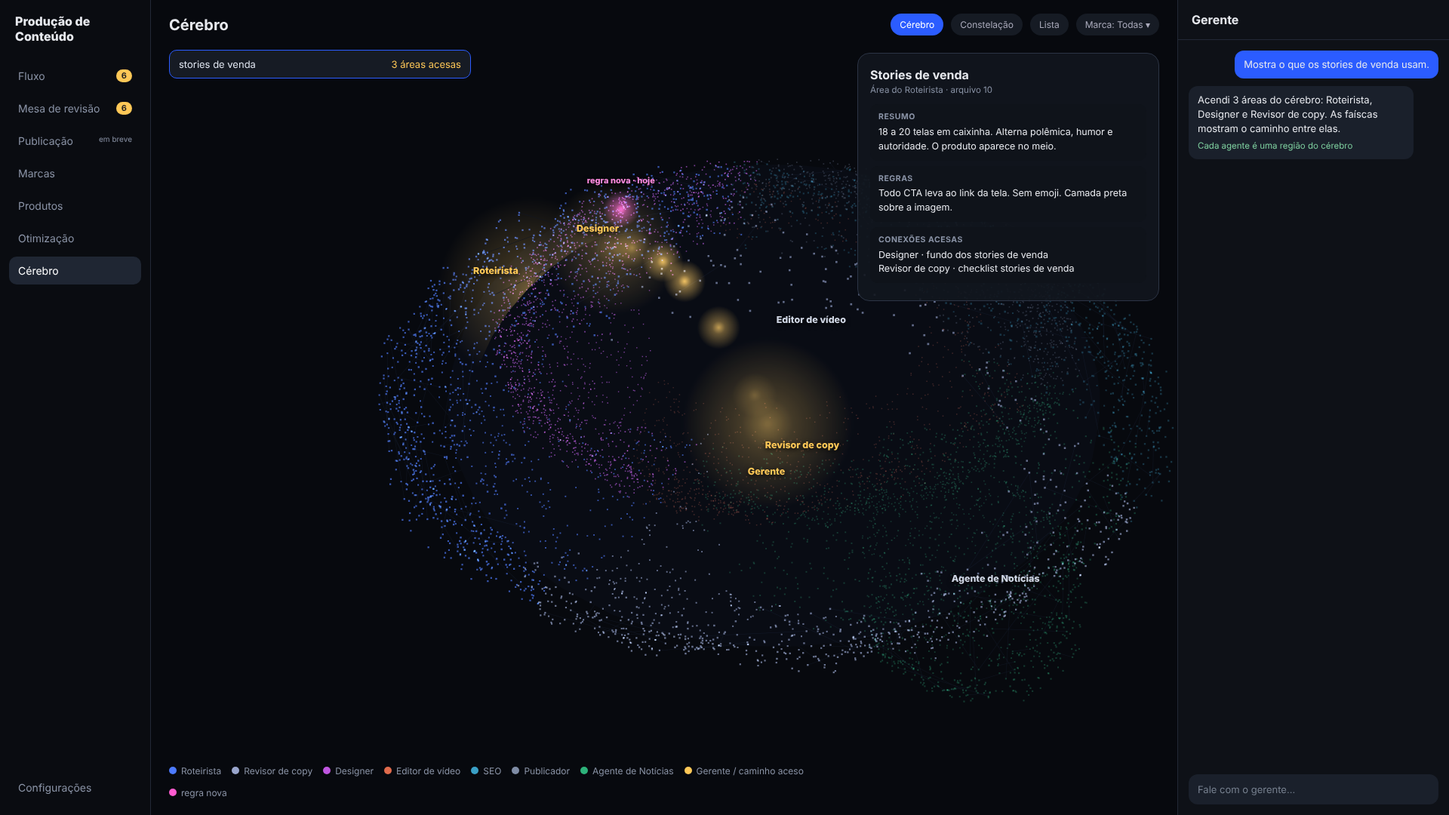
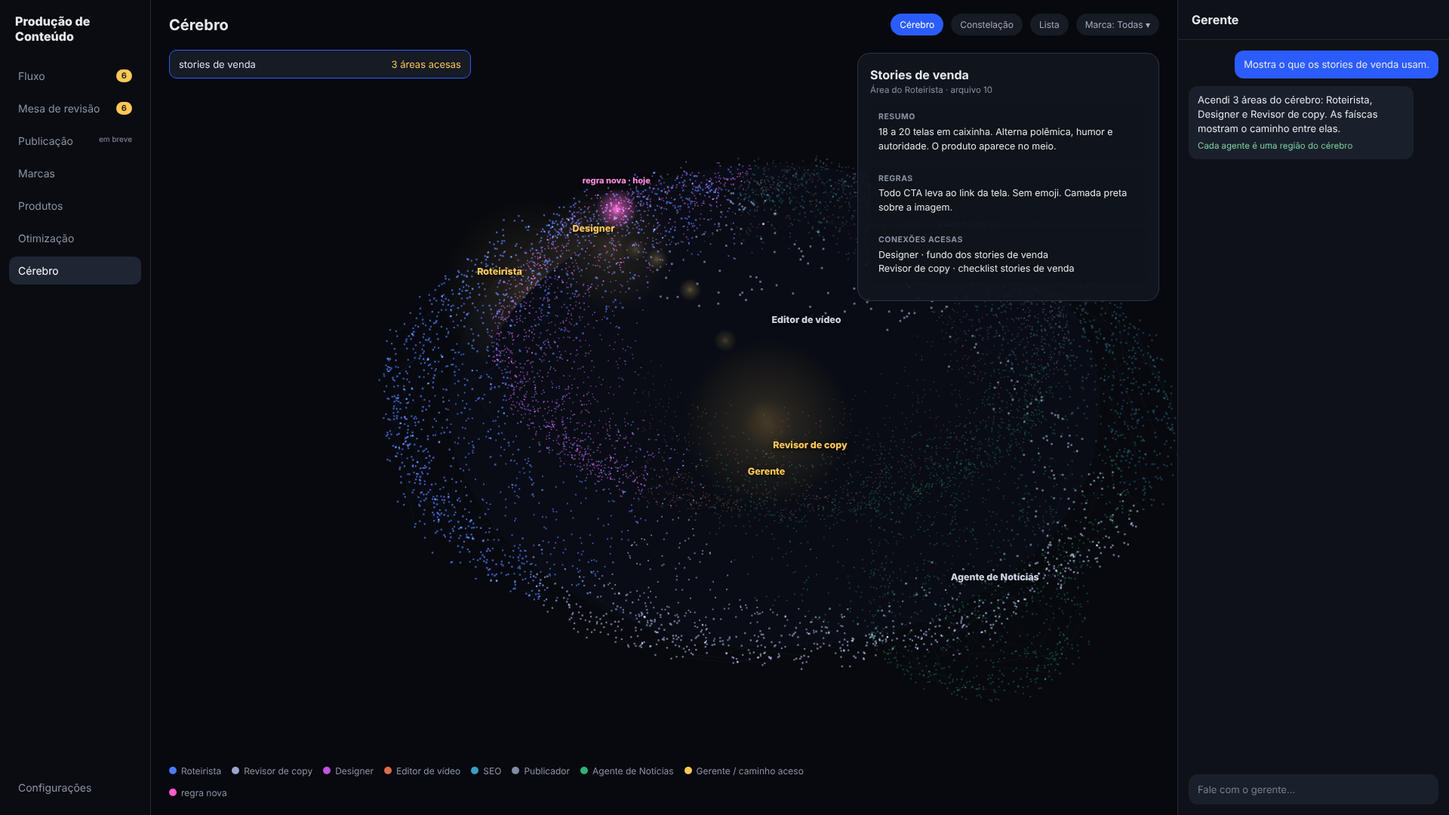
Mockup v3: personagens mais humanos, telão com futebol, cérebro mais suave e UI premium grafite
Claude-Session: https://claude.ai/code/session_017mkQW85rJCmU6p9tbJQqBr

Changed region(s): [[0.25, 0.1833, 0.8125, 0.825], [0.6875, 0.7944, 0.7188, 0.825], [0.6562, 0.825, 0.6875, 0.8556]]

diff --git a/mockup/v3/fluxo-premium.html b/mockup/v3/fluxo-premium.html
@@ -1,0 +1,67 @@
+<!doctype html><html><head><meta charset="utf-8"><style>*{box-sizing:border-box;margin:0;font-family:Inter,Segoe UI,Arial,sans-serif}
+body{background:#0e1117;color:#e7e9ee;width:1920px;height:1080px;display:flex}
+.side{width:200px;background:#0a0c11;border-right:1px solid #222836;padding:18px 12px;display:flex;flex-direction:column;gap:6px}
+.logo{font-weight:800;margin:0 8px 18px}.nv{padding:10px 12px;border-radius:10px;color:#8a93a6;font-size:14px}.nv.on{background:#1f2633;color:#fff}
+.nv b{float:right;background:#ffc857;color:#222;border-radius:9px;font-size:11px;padding:1px 7px}
+.main{flex:1;padding:20px 24px;overflow:hidden}
+.top{display:flex;align-items:center;gap:10px;margin-bottom:16px}.top h1{font-size:20px;margin-right:auto}
+.chip{font-size:12px;background:#1a202b;padding:6px 11px;border-radius:999px;color:#aab}.chip.on{background:#2b5cff;color:#fff}
+.chat{width:360px;border-left:1px solid #222836;display:flex;flex-direction:column}
+.ch{padding:16px 18px;border-bottom:1px solid #222836;font-weight:700}
+.msgs{flex:1;padding:14px;display:flex;flex-direction:column;gap:10px;font-size:13px;line-height:1.45}
+.m{padding:9px 12px;border-radius:12px;max-width:90%}.u{background:#2b5cff;align-self:flex-end}.g{background:#1a202b}
+.g small{display:block;color:#7fd1a0;margin-top:6px;font-size:11.5px}
+.in{margin:14px;padding:12px;background:#1a202b;border-radius:12px;color:#77808f;font-size:13px}
+.live{display:inline-block;width:8px;height:8px;border-radius:50%;background:#3ddc84;margin-right:6px;box-shadow:0 0 8px #3ddc84}
+
+.nv{display:flex;align-items:center;gap:10px}.nv b{margin-left:auto}
+.brandtag{font-size:10.5px;padding:2px 7px;border-radius:999px;background:#1f2633;color:#bcd}
+.lane{background:#131821;border:1px solid #222836;border-radius:12px;padding:9px 12px;margin-bottom:8px}
+.lh{display:flex;align-items:center;gap:10px;margin-bottom:7px}.lh b{font-size:14px}.lh .sub{font-size:11.5px;color:#8a93a6}
+.meta{margin-left:auto;font-size:11.5px;color:#cfd6e4;display:flex;align-items:center;gap:8px}.pb{width:70px;height:5px;background:#222836;border-radius:3px}.pb u{display:block;height:5px;background:#2b5cff;border-radius:3px}
+.st{display:flex;gap:6px}.s{flex:1;min-width:0;background:#0f131a;border-radius:9px;padding:6px;display:flex;flex-direction:column;gap:5px;min-height:62px}
+.s.me{background:#1d1a10;outline:1px solid #4a3f1a}.s.done{background:#0f1a14}
+.sh{font-size:10px;text-transform:uppercase;letter-spacing:.04em;color:#8a93a6;display:flex;justify-content:space-between;gap:4px}.sh i{font-style:normal;text-transform:none;letter-spacing:0;color:#aeb7c8}
+.s.me .sh{color:#ffc857}.s.done .sh{color:#3ddc84}
+.c{background:#1a202b;border-radius:7px;padding:5px 7px;font-size:11.5px;border-left:3px solid #3ddc84;line-height:1.3}.c i{font-style:normal;font-size:10px;color:#8a93a6;display:block}
+.c.y{border-color:#ffc857}.c.aj{border-color:#ff8a3d}.c.aj i{color:#ff9d5c}.c.d{opacity:.65}.c.q{border-color:#555}.c.e{border-color:#ff5b5b}.c.e i{color:#ff8b8b}
+.leg{display:flex;gap:16px;font-size:11px;color:#8a93a6;margin-top:6px}.leg span:before{content:"";display:inline-block;width:9px;height:9px;border-radius:2px;margin-right:6px;background:var(--c)}
+@import url('https://fonts.googleapis.com/css2?family=Inter:wght@400;500;600;700&display=swap');
+body{background:#0c0c0d!important;font-feature-settings:"cv11","ss01";letter-spacing:-.005em}
+.side{background:#0f0f10!important;border-right:1px solid #1f1f22!important;width:232px!important;padding:22px 14px!important}
+.logo{font-size:15px;letter-spacing:.02em;margin-bottom:26px!important;display:flex;align-items:center;gap:10px}
+.logo:before{content:"";width:26px;height:26px;border-radius:8px;background:linear-gradient(135deg,#e9d8a6,#a8864a);box-shadow:0 0 0 1px #ffffff22 inset}
+.nv{color:#8b8b90!important;font-size:13.5px!important;padding:10px 12px!important;border:1px solid transparent}
+.nv.on{background:linear-gradient(180deg,#1c1c1f,#161618)!important;color:#f2f2f3!important;border-color:#2a2a2e;box-shadow:inset 0 1px 0 #ffffff0d}
+.nv b{background:#2a2418!important;color:#e9d29a!important;border:1px solid #4a3f26;font-weight:600!important}
+.main{background:radial-gradient(1200px 500px at 30% -10%,#1a1a1d 0,#0c0c0d 60%)!important;padding:26px 30px!important}
+.top h1{font-size:22px!important;font-weight:600;letter-spacing:-.02em}
+.chip{background:#161618!important;border:1px solid #26262a!important;color:#a5a5aa!important;font-weight:500}
+.chip.on{background:#f2f2f3!important;color:#0c0c0d!important;border-color:#f2f2f3!important}
+.lane{background:linear-gradient(180deg,#141416,#111113)!important;border:1px solid #222225!important;border-radius:16px!important;box-shadow:inset 0 1px 0 #ffffff08,0 10px 30px #0006;padding:12px 14px!important}
+.lh b{font-weight:600;letter-spacing:-.01em}
+.s{background:#0e0e0f!important;border:1px solid #1c1c1f;border-radius:11px!important}
+.s.me{background:linear-gradient(180deg,#19160f,#121110)!important;outline:none!important;border-color:#3a3220!important}
+.s.done{background:#0f1311!important;border-color:#1c2a22}
+.sh{color:#6f6f75!important;font-weight:500}.s.me .sh{color:#d9c08a!important}.s.done .sh{color:#7fbf98!important}
+.c{background:#18181b!important;border-left:none!important;border:1px solid #26262a;box-shadow:inset 2px 0 0 #6fcf97;border-radius:8px!important;color:#e8e8ea}
+.c.y{box-shadow:inset 2px 0 0 #d9c08a}.c.aj{box-shadow:inset 2px 0 0 #d98a5a}.c.e{box-shadow:inset 2px 0 0 #e06060;background:#1d1414!important}.c.q{box-shadow:inset 2px 0 0 #4a4a50}
+.c i{color:#7b7b82!important}.c.aj i{color:#d9a07a!important}.c.e i{color:#e88!important}
+.pb{background:#232326!important}.pb u{background:linear-gradient(90deg,#a8864a,#e9d8a6)!important}
+.chat{background:#0f0f10!important;border-left:1px solid #1f1f22!important}
+.ch{border-bottom:1px solid #1f1f22!important;font-weight:600!important}
+.m.u{background:#f2f2f3!important;color:#0c0c0d}.m.g{background:#18181b!important;border:1px solid #26262a}
+.g small{color:#c9b37f!important}
+.in{background:#161618!important;border:1px solid #26262a}
+.leg span:before{border-radius:50%!important}
+.c,.c.y,.c.aj,.c.e,.c.q,.c.d{border-color:#26262a!important}.c.e{border-color:#3a2224!important}
+.lane{margin-bottom:7px!important;padding:9px 12px!important}.s{min-height:54px!important}.main{padding:20px 26px!important}
+div[style*="width:300px;background:#1a202b"]{display:none!important}
+</style></head><body><div class="side"><div class="logo">Produção de Conteúdo</div><div class="nv on"><svg width="18" height="18" viewBox="0 0 24 24" fill="none" stroke="currentColor" stroke-width="1.7" stroke-linecap="round" stroke-linejoin="round"><rect x="3" y="4" width="5" height="16" rx="1.5"/><rect x="10" y="4" width="5" height="10" rx="1.5"/><rect x="17" y="4" width="4" height="13" rx="1.5"/></svg>Fluxo<b>6</b></div><div class="nv"><svg width="18" height="18" viewBox="0 0 24 24" fill="none" stroke="currentColor" stroke-width="1.7" stroke-linecap="round" stroke-linejoin="round"><path d="M4 4h16v12H4z"/><path d="M8 20h8M12 16v4"/><path d="M9 10l2 2 4-4"/></svg>Mesa de revisão<b>6</b></div><div class="nv"><svg width="18" height="18" viewBox="0 0 24 24" fill="none" stroke="currentColor" stroke-width="1.7" stroke-linecap="round" stroke-linejoin="round"><path d="M3 12V4h8l10 10-8 8z"/><circle cx="7.5" cy="7.5" r="1.5"/></svg>Marcas</div><div class="nv"><svg width="18" height="18" viewBox="0 0 24 24" fill="none" stroke="currentColor" stroke-width="1.7" stroke-linecap="round" stroke-linejoin="round"><path d="M3 7l9-4 9 4v10l-9 4-9-4z"/><path d="M3 7l9 4 9-4M12 11v10"/></svg>Produtos</div><div class="nv"><svg width="18" height="18" viewBox="0 0 24 24" fill="none" stroke="currentColor" stroke-width="1.7" stroke-linecap="round" stroke-linejoin="round"><path d="M3 20h18"/><path d="M5 16l5-5 4 3 6-7"/><path d="M15 7h5v5"/></svg>Otimização</div><div class="nv"><svg width="18" height="18" viewBox="0 0 24 24" fill="none" stroke="currentColor" stroke-width="1.7" stroke-linecap="round" stroke-linejoin="round"><path d="M9 4a3 3 0 00-3 3 3 3 0 00-2 5 3 3 0 002 5 3 3 0 006 0V6a2 2 0 00-3-2z"/><path d="M15 4a3 3 0 013 3 3 3 0 012 5 3 3 0 01-2 5 3 3 0 01-6 0"/></svg>Cérebro</div><div style="margin-top:auto;font-size:11.5px;color:#8a93a6;padding:10px 12px;border-top:1px solid #222836">Gasto do mês<br><b style="color:#dde;font-size:14px">R$ 0,00</b> <span>assinatura Claude + fal.ai</span></div><div class="nv"><svg width="18" height="18" viewBox="0 0 24 24" fill="none" stroke="currentColor" stroke-width="1.7" stroke-linecap="round" stroke-linejoin="round"><circle cx="12" cy="12" r="3"/><path d="M12 2v3M12 19v3M2 12h3M19 12h3M4.9 4.9l2.1 2.1M17 17l2.1 2.1M4.9 19.1L7 17M17 7l2.1-2.1"/></svg>Configurações</div></div><div class="main"><div style="background:linear-gradient(90deg,#1f1314,#141213);border:1px solid #3a2224;border-radius:11px;padding:8px 14px;margin-bottom:10px;display:flex;align-items:center;gap:12px;font-size:12.5px"><b style="color:#ff6b6b">1 problema</b><span style="color:#f2c4c4">Editor de vídeo parou: a assinatura do Claude saiu do login. 1 Reels esperando.</span><span style="margin-left:auto;background:#f2f2f3;color:#0c0c0d;padding:5px 12px;border-radius:8px;font-weight:700">Resolver</span></div>
+<div class="top" style="margin-bottom:10px"><h1>Fluxo</h1><span class="chip on">Lista</span><span class="chip">Escritório</span><span style="flex:1"></span><div style="position:relative"><span class="chip" style="display:inline-flex;gap:8px;align-items:center;padding:7px 14px;border:1px solid #3a3a3f">Marca: <b style="color:#fff">Todas (7)</b> ▾</span>
+<div style="position:absolute;right:0;top:40px;width:300px;background:#1a202b;border:1px solid #2c3445;border-radius:12px;padding:10px;z-index:5;box-shadow:0 20px 40px #000c;font-size:13px">
+<div style="background:#0f131a;border-radius:8px;padding:8px 10px;color:#77808f;margin-bottom:8px">Buscar marca…</div>
+<div style="font-size:10.5px;color:#8a93a6;text-transform:uppercase;margin:4px 6px">Fixadas</div>
+<div style="padding:7px 8px;border-radius:7px;background:#ffffff10">✓ Todas as marcas</div><div style="padding:7px 8px">★ Central do Marketing <span style="float:right;color:#ffc857">2</span></div><div style="padding:7px 8px">★ 007 Spyhacker <span style="float:right;color:#ffc857">2</span></div>
+<div style="font-size:10.5px;color:#8a93a6;text-transform:uppercase;margin:8px 6px 4px">Outras</div><div style="padding:7px 8px">Corte dos Ricos<span style="float:right;color:#ffc857"></span></div><div style="padding:7px 8px">Marketing Raiz<span style="float:right;color:#ffc857">1</span></div><div style="padding:7px 8px">Seguidores em Alta<span style="float:right;color:#ffc857"></span></div><div style="padding:7px 8px">SIM Int Pay<span style="float:right;color:#ffc857"></span></div><div style="padding:7px 8px">Vivendo de Bet<span style="float:right;color:#ffc857">2</span></div><div style="font-size:11px;color:#8a93a6;margin:8px 6px 2px">O número amarelo é o que espera você naquela marca.</div></div></div><span class="chip" style="background:linear-gradient(135deg,#e9d8a6,#a8864a)!important;color:#141006!important;border:none!important;font-weight:600">+ Novo conteúdo</span></div><div class="lane"><div class="lh"><b>Carrossel</b><span class="sub">educativo · história real · post de venda</span><span class="meta">Meta 4/dia · 2 de 4<span class="pb"><u style="width:50%"></u></span><span class="chip">Manual</span></span></div><div class="st"><div class="s "><div class="sh">Roteiro<i>Roteirista</i></div><div class="c ">Delivery e comissão<i>Corte dos Ricos · escrevendo</i></div></div><div class="s "><div class="sh">Revisão de copy<i>Revisor de copy</i></div><div class="c ">Fyre Festival<i>Seguidores em Alta · checklist história real</i></div></div><div class="s me"><div class="sh">Aprovar roteiro<i></i></div><div class="c y">Aluno profissional<i>Central do Marketing</i></div></div><div class="s "><div class="sh">Arte<i>Designer</i></div><div class="c ">Toy Story 2 quase apagado<i>007 Spyhacker · slide 6 de 10</i></div><div class="c aj">Controle Patrimonial<i>Corte dos Ricos · ajuste: "capa mais escura"</i></div></div><div class="s me"><div class="sh">Aprovar arte<i></i></div><div class="c y">Moldura de preço<i>Central do Marketing · 9 slides</i></div></div><div class="s "><div class="sh">Postagem<i>Publicador</i></div><div class="c q">Conteúdo de vitrine e de decisão<i>Central do Marketing · marcar postado</i></div></div><div class="s done"><div class="sh">Finalizado<i></i></div><div class="c d">A promoção da Hoover<i>Marketing Raiz · postado</i></div></div></div></div><div class="lane"><div class="lh"><b>Estático</b><span class="sub">post único</span><span class="meta">Meta 1/dia · 0 de 1<span class="pb"><u style="width:0%"></u></span><span class="chip">Manual</span></span></div><div class="st"><div class="s "><div class="sh">Roteiro<i>Roteirista</i></div></div><div class="s "><div class="sh">Revisão de copy<i>Revisor de copy</i></div></div><div class="s me"><div class="sh">Aprovar texto<i></i></div><div class="c y">Opinião: venda de jovens<i>Vivendo de Bet</i></div></div><div class="s "><div class="sh">Arte<i>Designer</i></div></div><div class="s me"><div class="sh">Aprovar arte<i></i></div></div><div class="s "><div class="sh">Postagem<i>Publicador</i></div></div><div class="s done"><div class="sh">Finalizado<i></i></div></div></div></div><div class="lane"><div class="lh"><b>Stories de venda</b><span class="sub">18 a 20 telas · caixinha</span><span class="meta">Meta 1/dia · 1 de 1<span class="pb"><u style="width:100%"></u></span><span class="chip">Manual</span></span></div><div class="st"><div class="s "><div class="sh">Roteiro<i>Roteirista</i></div></div><div class="s "><div class="sh">Revisão de copy<i>Revisor de copy</i></div></div><div class="s me"><div class="sh">Aprovar roteiro<i></i></div></div><div class="s "><div class="sh">Arte<i>Designer</i></div><div class="c ">PagaTG no Seguidores em Alta<i>tela 12 de 20</i></div></div><div class="s me"><div class="sh">Aprovar arte<i></i></div><div class="c y">Atlas Hosting<i>007 Spyhacker · 19 telas</i></div></div><div class="s "><div class="sh">Postagem<i>Publicador</i></div></div><div class="s done"><div class="sh">Finalizado<i></i></div><div class="c d">ÁreaFlix<i>Marketing Raiz · postado</i></div></div></div></div><div class="lane"><div class="lh"><b>Reels</b><span class="sub">voz de IA · motion</span><span class="meta">Meta 2/dia · 1 de 2<span class="pb"><u style="width:50%"></u></span><span class="chip">Manual</span></span></div><div class="st"><div class="s "><div class="sh">Roteiro<i>Roteirista</i></div><div class="c ">IA e preço<i>Central do Marketing · opinião</i></div></div><div class="s "><div class="sh">Revisão de copy<i>Revisor de copy</i></div></div><div class="s me"><div class="sh">Aprovar roteiro<i></i></div></div><div class="s "><div class="sh">Edição<i>Editor de vídeo</i></div><div class="c e">Atlas, pico de acesso<i>007 Spyhacker · parou: assinatura saiu do login</i></div></div><div class="s me"><div class="sh">Aprovar vídeo<i></i></div><div class="c y">Efeito isca<i>Marketing Raiz · 50 s</i></div></div><div class="s "><div class="sh">Postagem<i>Publicador</i></div></div><div class="s done"><div class="sh">Finalizado<i></i></div><div class="c d">Knight Capital<i>007 Spyhacker · postado</i></div></div></div></div><div class="lane"><div class="lh"><b>Matéria de jornal</b><span class="sub">site · fato com fonte</span><span class="meta">Meta 3/dia · 1 de 3<span class="pb"><u style="width:33%"></u></span><span class="chip">Manual</span></span></div><div class="st"><div class="s "><div class="sh">Pauta<i>Agente de Notícias</i></div><div class="c ">Notícia do dia<i>Vivendo de Bet · lendo ge, ESPN, CNN</i></div></div><div class="s "><div class="sh">Redação<i>Roteirista</i></div><div class="c ">IA do Instagram para adolescentes<i>Seguidores em Alta · escrevendo</i></div></div><div class="s "><div class="sh">Revisão e SEO<i>Revisor · SEO</i></div></div><div class="s me"><div class="sh">Aprovar matéria<i></i></div><div class="c y">Rafael Lacerda no Vitória<i>Vivendo de Bet · matéria completa</i></div></div><div class="s "><div class="sh">Foto<i>Designer</i></div></div><div class="s "><div class="sh">Publicar no site<i></i></div></div><div class="s done"><div class="sh">Finalizado<i></i></div></div></div></div><div class="lane"><div class="lh"><b>Post de blog</b><span class="sub">aula escrita</span><span class="meta">Meta 1/dia · 0 de 1<span class="pb"><u style="width:0%"></u></span><span class="chip">Manual</span></span></div><div class="st"><div class="s "><div class="sh">Roteiro<i>Roteirista</i></div><div class="c ">Post de blog<i>Corte dos Ricos · produtos nos tópicos</i></div></div><div class="s "><div class="sh">Revisão de copy<i>Revisor de copy</i></div></div><div class="s "><div class="sh">SEO<i>SEO</i></div></div><div class="s me"><div class="sh">Aprovar post<i></i></div><div class="c y">Post de blog<i>007 Spyhacker · Atlas no tópico</i></div></div><div class="s "><div class="sh">Publicar no blog<i></i></div></div><div class="s done"><div class="sh">Finalizado<i></i></div><div class="c d">Aula escrita<i>Marketing Raiz · no ar</i></div></div><div style="flex:1"></div></div></div>
+<div class="leg"><span style="--c:#3ddc84">agente trabalhando</span><span style="--c:#ffc857">esperando você</span><span style="--c:#ff8a3d">em ajuste</span><span style="--c:#ff5b5b">parado</span><span style="--c:#555">na fila (ainda não começou)</span></div></div><div class="chat"><div class="ch">Gerente</div><div class="msgs"><div class="m u">Faz um carrossel de história real para o 007 Spyhacker.</div><div class="m g">Pauta escolhida: Toy Story 2 quase apagado. Fontes: SlashFilm (2021) e Techspot. O Revisor de copy já aprovou, está com o Designer.</div><div class="m u">Na capa do Controle Patrimonial, deixa mais escuro.</div><div class="m g">Voltou para o Designer com o ajuste.<small>Regra salva: Designer · fundo escuro, preto dominante. Desfazer</small></div></div><div class="in">Fale com o gerente…</div></div></body></html>

diff --git a/mockup/v3/escritorio-humanos.html b/mockup/v3/escritorio-humanos.html
@@ -1,0 +1,149 @@
+<!doctype html><html><head><meta charset="utf-8"><link rel="stylesheet" href="shell.css"><style>
+.you{position:absolute;right:24px;bottom:22px;background:#1d1a10dd;border:1px solid #4a3f1a;border-radius:12px;padding:12px 14px;font-size:12.5px;width:260px;z-index:3}.you b{color:#ffc857;font-size:14px}.you div{margin-top:6px;color:#ddd}
+.feed{position:absolute;right:24px;top:70px;width:300px;z-index:3;display:flex;flex-direction:column;gap:6px}
+.feed div{background:#0b0e14cc;border:1px solid #2a3344;border-radius:10px;padding:7px 10px;font-size:11.5px;color:#cdd;backdrop-filter:blur(6px);animation:in .6s ease}
+.feed div i{font-style:normal;color:#8a93a6;margin-right:6px}
+@keyframes in{from{opacity:0;transform:translateX(20px)}to{opacity:1}}
+.lv{position:absolute;left:24px;top:70px;z-index:3;background:#0b0e14cc;border:1px solid #2a3344;border-radius:12px;padding:10px 14px;font-size:12px;width:260px}
+.lv b{font-size:13px}.xp{height:8px;background:#222836;border-radius:5px;margin:6px 0 4px;overflow:hidden}.xp u{display:block;height:8px;width:62%;background:linear-gradient(90deg,#2b5cff,#a855f7);border-radius:5px}
+</style></head><body>
+<div class="side"><div class="logo">Produção de Conteúdo</div><div class="nv on">Fluxo<b>6</b></div><div class="nv">Mesa de revisão<b>6</b></div><div class="nv">Marcas</div><div class="nv">Produtos</div><div class="nv">Otimização</div><div class="nv">Cérebro</div><div class="nv" style="margin-top:auto">Configurações</div></div>
+<div class="main"><canvas id="c"></canvas>
+<div class="top"><h1>Fluxo</h1><span class="chip">Lista</span><span class="chip on">Escritório</span><span style="flex:1"></span><span class="chip" style="border:1px solid #2b5cff">Marca: <b style="color:#fff">Todas (7)</b> ▾</span><span class="chip">Tela cheia</span></div>
+<div class="lv"><b>Dia de produção</b> · 8 de 13 entregas<div class="xp"><u></u></div><span style="color:#8a93a6">Sequência: 4 dias batendo a meta</span></div>
+<div class="feed" id="feed"></div>
+<div class="hud"><div><b>6</b>trabalhando</div><div><b style="color:#ff6b6b">1</b>parado</div><div><b>142</b>entregas no mês</div></div>
+<div class="you"><b>Esperando você: 6</b><div>Moldura de preço · Efeito isca · Atlas Hosting · +3</div><div style="color:#ffc857;margin-top:8px">Abrir Mesa de revisão ›</div></div>
+<div id="labs"></div></div>
+<div class="chat"><div class="ch">Gerente</div><div class="msgs"><div class="m u">Como tá o time agora?</div><div class="m g">6 trabalhando, o Editor de vídeo parado (precisa de login) e o Publicador esperando o horário. O Roteirista acabou de entregar "Delivery e comissão" para o Revisor.</div></div><div class="in">Fale com o gerente…</div></div>
+<script src="three.min.js"></script><script>
+const cv=document.getElementById('c'),W=cv.parentElement.clientWidth,H=1080;
+const R=new THREE.WebGLRenderer({canvas:cv,antialias:true});R.setSize(W,H);R.setPixelRatio(2);R.shadowMap.enabled=true;R.shadowMap.type=THREE.PCFSoftShadowMap;
+const S=new THREE.Scene();S.background=new THREE.Color(0x0b0f17);S.fog=new THREE.Fog(0x0b0f17,40,80);
+const cam=new THREE.PerspectiveCamera(34,W/H,.1,200);
+S.add(new THREE.HemisphereLight(0x8fb0ff,0x0b0f17,.55));
+const sun=new THREE.DirectionalLight(0xffffff,.9);sun.position.set(12,22,10);sun.castShadow=true;sun.shadow.mapSize.set(2048,2048);Object.assign(sun.shadow.camera,{left:-20,right:20,top:20,bottom:-20});S.add(sun);
+const M=(c,e=0,ei=1)=>new THREE.MeshStandardMaterial({color:c,roughness:.55,metalness:.1,emissive:e,emissiveIntensity:ei});
+// floor
+const fl=new THREE.Mesh(new THREE.BoxGeometry(30,.6,22),M(0x1a2232));fl.position.y=-.3;fl.receiveShadow=true;S.add(fl);
+const grid=new THREE.GridHelper(30,30,0x2b3a57,0x202a3d);grid.position.y=.01;S.add(grid);
+// glowing floor paths
+const pathMat=new THREE.MeshBasicMaterial({color:0x2b5cff,transparent:true,opacity:.35});
+const agents=[
+ {n:'Roteirista',c:0x4d7cff,p:[-8,0,-4],st:'work',t:'Escrevendo "Delivery e comissão"',s:'Corte dos Ricos · Carrossel',pg:62},
+ {n:'Revisor de copy',c:0x8b9bb8,p:[-2.5,0,-6],st:'work',t:'Checklist de história real: "Fyre Festival"',s:'Seguidores em Alta',pg:40},
+ {n:'Designer',c:0xc056e0,p:[4,0,-6],st:'work',t:'Slide 6 de 10: "Toy Story 2 quase apagado"',s:'007 Spyhacker · Carrossel',pg:60},
+ {n:'Editor de vídeo',c:0xe06a4d,p:[9,0,-3],st:'err',t:'Parado: a assinatura do Claude saiu do login',s:'"Atlas, pico de acesso" · Reels'},
+ {n:'Agente de Notícias',c:0x2fb37a,p:[-9,0,3.5],st:'work',t:'Lendo ge, ESPN e CNN Esportes',s:'Vivendo de Bet · pauta do dia',pg:70},
+ {n:'SEO',c:0x3aa0c8,p:[-3,0,6],st:'work',t:'Palavras-chave: "IA do Instagram para adolescentes"',s:'Seguidores em Alta · Matéria',pg:35},
+ {n:'Publicador',c:0x6b7590,p:[8,0,5],st:'idle',t:'Esperando o horário de postar',s:'1 item pronto para postagem'},
+ {n:'Gerente',c:0xe0b23a,p:[1.5,0,1],st:'boss',t:'Designer, "Aluno profissional" foi aprovado. É contigo.',s:'distribuindo 6 tarefas'}];
+const bots=[];
+function bot(a){const g=new THREE.Group();g.position.set(...a.p);
+ const desk=new THREE.Mesh(new THREE.BoxGeometry(2.6,.15,1.4),M(0x3a4a66));desk.position.set(0,1.05,.2);desk.castShadow=desk.receiveShadow=true;g.add(desk);
+ for(const x of[-1.15,1.15])for(const z of[-.4,.8]){const l=new THREE.Mesh(new THREE.BoxGeometry(.1,1,.1),M(0x2b3850));l.position.set(x,.5,z);g.add(l)}
+ const sc=a.st=='err'?0xff4b4b:a.st=='idle'?0x223:(a.st=='boss'?0xffc857:0x3ddc84);
+ const mon=new THREE.Mesh(new THREE.BoxGeometry(1.3,.8,.08),M(0x0b0e14,sc,a.st=='idle'?.1:1.2));mon.position.set(0,1.65,-.25);g.add(mon);
+ const st=new THREE.Mesh(new THREE.BoxGeometry(.1,.4,.1),M(0x4b5b7a));st.position.set(0,1.25,-.25);g.add(st);
+ const lt=new THREE.PointLight(sc,a.st=='idle'?0:1.4,4);lt.position.set(0,1.7,.3);g.add(lt);
+ const body=new THREE.Group();body.position.set(0,0,1.3);g.add(body);
+ const chair=new THREE.Mesh(new THREE.CylinderGeometry(.42,.42,.1,20),M(0x222a3a));chair.position.y=.62;body.add(chair);
+ const back=new THREE.Mesh(new THREE.BoxGeometry(.8,.8,.1),M(0x222a3a));back.position.set(0,1.05,.42);body.add(back);
+ const idx=agents.indexOf(a)<0?0:agents.indexOf(a);
+ const skin=[0xf1c7a3,0xc68a5e,0x8d5a3b,0xe8b48c,0xa86e4a,0xf3d0b5,0x7a4a30,0xd9a27c][idx%8];
+ const hairC=[0x2b1a10,0x111111,0x6b3e1e,0xd9b36a,0x3a2a20,0x8a4b2a,0x161616,0x4a3020][idx%8];
+ const style=['curto','coque','longo','curto','careca','longo','curto','coque'][idx%8];
+ const pants=M(0x2b3245),shoe=M(0x1a1a1a),sk=M(skin),sh=M(a.c);
+ for(const sx of[-.13,.13]){const th=new THREE.Mesh(new THREE.CylinderGeometry(.11,.1,.55,12),pants);th.rotation.x=Math.PI/2;th.position.set(sx,.76,-.12);body.add(th);const kn=new THREE.Mesh(new THREE.SphereGeometry(.1,10,10),pants);kn.position.set(sx,.76,-.4);body.add(kn);const sn=new THREE.Mesh(new THREE.CylinderGeometry(.09,.075,.5,12),pants);sn.position.set(sx,.5,-.42);body.add(sn);const ft=new THREE.Mesh(new THREE.BoxGeometry(.13,.08,.3),shoe);ft.position.set(sx,.22,-.5);body.add(ft)}
+ const hips=new THREE.Mesh(new THREE.SphereGeometry(.24,16,12),pants);hips.scale.set(1.15,.55,.9);hips.position.y=.82;body.add(hips);
+ const torso=new THREE.Mesh(new THREE.CylinderGeometry(.27,.21,.62,20),sh);torso.position.y=1.17;torso.castShadow=true;body.add(torso);
+ const chest=new THREE.Mesh(new THREE.SphereGeometry(.28,20,14),sh);chest.scale.set(1.05,.6,.8);chest.position.y=1.42;body.add(chest);
+ const collar=new THREE.Mesh(new THREE.TorusGeometry(.09,.025,8,20),M(0xffffff));collar.rotation.x=Math.PI/2;collar.position.y=1.58;body.add(collar);
+ const neck=new THREE.Mesh(new THREE.CylinderGeometry(.07,.08,.14,12),sk);neck.position.y=1.62;body.add(neck);
+ const head=new THREE.Group();head.position.y=1.86;body.add(head);
+ const hm=new THREE.Mesh(new THREE.SphereGeometry(.2,28,28),sk);hm.scale.set(.92,1.12,1);hm.castShadow=true;head.add(hm);
+ const jaw=new THREE.Mesh(new THREE.SphereGeometry(.15,20,20),sk);jaw.scale.set(1,.8,1);jaw.position.set(0,-.1,-.03);head.add(jaw);
+ for(const ex of[-1,1]){const ear=new THREE.Mesh(new THREE.SphereGeometry(.045,10,10),sk);ear.scale.set(.5,1,.8);ear.position.set(ex*.185,0,0);head.add(ear);
+  const w=new THREE.Mesh(new THREE.SphereGeometry(.03,10,10),M(0xffffff));w.scale.set(1.3,.9,.5);w.position.set(ex*.07,.03,-.18);head.add(w);
+  const p=new THREE.Mesh(new THREE.SphereGeometry(.016,8,8),M(0x2a1a10));p.position.set(ex*.07,.03,-.195);head.add(p);
+  const br=new THREE.Mesh(new THREE.BoxGeometry(.07,.012,.02),M(hairC));br.position.set(ex*.07,.085,-.18);br.rotation.z=-ex*.12;head.add(br)}
+ const nose=new THREE.Mesh(new THREE.ConeGeometry(.025,.07,8),sk);nose.rotation.x=-Math.PI/2;nose.position.set(0,-.02,-.21);head.add(nose);
+ const mouth=new THREE.Mesh(new THREE.TorusGeometry(.035,.008,6,16,Math.PI),M(0x9a4a3a));mouth.rotation.z=Math.PI;mouth.position.set(0,-.09,-.175);head.add(mouth);
+ if(style!='careca'){const hair=new THREE.Mesh(new THREE.SphereGeometry(.215,28,28,0,Math.PI*2,0,Math.PI*.5),M(hairC));hair.scale.set(.95,1.1,1.05);hair.position.set(0,.02,.015);hair.rotation.x=-.18;head.add(hair);
+  if(style=='coque'){const bun=new THREE.Mesh(new THREE.SphereGeometry(.09,14,14),M(hairC));bun.position.set(0,.18,.15);head.add(bun)}
+  if(style=='longo'){const lh=new THREE.Mesh(new THREE.CylinderGeometry(.2,.17,.38,20,1,true),M(hairC));lh.material.side=THREE.DoubleSide;lh.position.set(0,-.12,.05);head.add(lh)}}
+ const arms=[];for(const sx of[-1,1]){const ar=new THREE.Group();ar.position.set(sx*.3,1.47,0);body.add(ar);
+  const shd=new THREE.Mesh(new THREE.SphereGeometry(.1,12,12),sh);ar.add(shd);
+  const up=new THREE.Mesh(new THREE.CylinderGeometry(.075,.065,.38,12),sh);up.position.set(sx*.03,-.18,-.04);up.rotation.x=.35;ar.add(up);
+  const el=new THREE.Mesh(new THREE.SphereGeometry(.065,10,10),sh);el.position.set(sx*.03,-.36,-.11);ar.add(el);
+  const fo=new THREE.Mesh(new THREE.CylinderGeometry(.06,.05,.36,12),sk);fo.position.set(sx*.02,-.38,-.29);fo.rotation.x=1.45;ar.add(fo);
+  const hd=new THREE.Mesh(new THREE.SphereGeometry(.06,10,10),sk);hd.scale.set(1,.6,1.3);hd.position.set(0,-.39,-.48);ar.add(hd);arms.push(ar)}
+ const ant=new THREE.Group();ant.position.y=2.55;body.add(ant);
+ const badge=new THREE.Mesh(new THREE.TorusGeometry(.16,.05,10,30),M(sc,sc,2));ant.add(badge);const dot=new THREE.Mesh(new THREE.SphereGeometry(.07,12,12),M(sc,sc,2));ant.add(dot);
+ const mug=new THREE.Mesh(new THREE.CylinderGeometry(.1,.09,.2,12),M(0xeeeeee));mug.position.set(.9,1.22,.3);g.add(mug);
+ const kb=new THREE.Mesh(new THREE.BoxGeometry(.8,.04,.28),M(0x1b2333));kb.position.set(0,1.15,.25);g.add(kb);
+ body.rotation.y=0;S.add(g);
+ const o={a,g,body,head,arms,mon,ant,lt,torso,top:new THREE.Vector3(a.p[0],3.2,a.p[2]+1.3)};bots.push(o);return o}
+agents.forEach(bot);
+// rug & plants
+const rug=new THREE.Mesh(new THREE.CylinderGeometry(3.4,3.4,.03,48),M(0x2a2410,0xffc857,.15));rug.position.set(1.5,.02,1.8);S.add(rug);
+for(const[x,z]of[[-13,-9],[13,-9],[-13,9],[13,9],[0,-9.5]]){const p=new THREE.Mesh(new THREE.ConeGeometry(.6,1.6,8),M(0x2f8a5a));p.position.set(x,1.1,z);p.castShadow=true;S.add(p);const v=new THREE.Mesh(new THREE.CylinderGeometry(.4,.3,.6,12),M(0x3a4a66));v.position.set(x,.3,z);S.add(v)}
+// telão com futebol
+const tc=document.createElement('canvas');tc.width=1024;tc.height=512;const tx=tc.getContext('2d');const ttex=new THREE.CanvasTexture(tc);
+const frameM=new THREE.Mesh(new THREE.BoxGeometry(12.6,6.4,.4),M(0x111318));frameM.position.set(0,3.6,-10.7);S.add(frameM);
+const scr=new THREE.Mesh(new THREE.PlaneGeometry(12,5.9),new THREE.MeshBasicMaterial({map:ttex}));scr.position.set(0,3.6,-10.48);S.add(scr);
+const tvl=new THREE.PointLight(0x5fd38a,1.6,16);tvl.position.set(0,3.5,-8);S.add(tvl);
+for(const x of[-5,5]){const st=new THREE.Mesh(new THREE.BoxGeometry(.3,1.2,.3),M(0x222630));st.position.set(x,.6,-10.7);S.add(st)}
+const players=[];for(let i=0;i<22;i++)players.push({x:Math.random(),y:Math.random(),t:i<11?0:1,ph:Math.random()*6});
+function drawTV(t){const g=tx;const W=1024,H=512;
+ for(let i=0;i<10;i++){g.fillStyle=i%2?'#2f8a3e':'#2a7d37';g.fillRect(i*W/10,0,W/10,H)}
+ g.strokeStyle='rgba(255,255,255,.85)';g.lineWidth=4;g.strokeRect(30,30,W-60,H-60);g.beginPath();g.moveTo(W/2,30);g.lineTo(W/2,H-30);g.stroke();
+ g.beginPath();g.arc(W/2,H/2,60,0,7);g.stroke();g.strokeRect(30,H/2-110,130,220);g.strokeRect(W-160,H/2-110,130,220);
+ const bx=W/2+Math.sin(t*.7)*330,by=H/2+Math.sin(t*1.3)*150;
+ players.forEach(p=>{const tx0=30+p.x*(W-60),ty0=30+p.y*(H-60);const px=tx0*.6+bx*.4+Math.sin(t*1.5+p.ph)*25,py=ty0*.6+by*.4+Math.cos(t*1.2+p.ph)*20;
+  g.fillStyle='rgba(0,0,0,.35)';g.beginPath();g.ellipse(px+3,py+8,9,4,0,0,7);g.fill();g.fillStyle=p.t?'#f5f5f5':'#d63a3a';g.beginPath();g.arc(px,py,9,0,7);g.fill()});
+ g.fillStyle='#fff';g.beginPath();g.arc(bx,by,6,0,7);g.fill();
+ g.fillStyle='rgba(0,0,0,.7)';g.fillRect(40,40,250,46);g.fillStyle='#fff';g.font='bold 26px Arial';g.fillText('VER  1  x  1  BRA',56,72);
+ g.fillStyle='#d63a3a';g.fillRect(300,40,90,46);g.fillStyle='#fff';g.font='bold 20px Arial';g.fillText('AO VIVO',308,70);
+ const mm=Math.floor(67+t/6);g.fillStyle='rgba(0,0,0,.7)';g.fillRect(W-150,40,110,46);g.fillStyle='#fff';g.font='bold 26px Arial';g.fillText(mm+"'",W-120,72);
+ ttex.needsUpdate=true}
+const bars=[];
+// routes & packets
+const byN=n=>bots.find(b=>b.a.n==n);
+const routes=[['Roteirista','Revisor de copy'],['Revisor de copy','Gerente'],['Gerente','Designer'],['Agente de Notícias','Roteirista'],['SEO','Gerente'],['Designer','Gerente'],['Gerente','Publicador'],['Gerente','Editor de vídeo']];
+const packets=[];
+routes.forEach(([f,t],i)=>{const A=byN(f).g.position.clone().add(new THREE.Vector3(0,1.7,.6)),B=byN(t).g.position.clone().add(new THREE.Vector3(0,1.7,.6));
+ const mid=A.clone().lerp(B,.5);mid.y+=3;const cur=new THREE.QuadraticBezierCurve3(A,mid,B);
+ const tube=new THREE.Mesh(new THREE.TubeGeometry(cur,40,.025,6),new THREE.MeshBasicMaterial({color:t=='Editor de vídeo'?0xff4b4b:0x2b5cff,transparent:true,opacity:.45}));S.add(tube);
+ if(t!='Editor de vídeo'){const pk=new THREE.Mesh(new THREE.BoxGeometry(.32,.42,.05),M(0xffffff,0xffffff,.6));const gl=new THREE.PointLight(0x7aa2ff,1.2,3);pk.add(gl);S.add(pk);packets.push({pk,cur,o:i*.17})}});
+// particles
+const pg=new THREE.BufferGeometry(),N=400,pa=new Float32Array(N*3);for(let i=0;i<N;i++){pa[i*3]=(Math.random()-.5)*30;pa[i*3+1]=Math.random()*10;pa[i*3+2]=(Math.random()-.5)*22}pg.setAttribute('position',new THREE.BufferAttribute(pa,3));
+const pts=new THREE.Points(pg,new THREE.PointsMaterial({color:0x7aa2ff,size:.06,transparent:true,opacity:.6}));S.add(pts);
+// walker: Roteirista carries doc to Gerente
+const walker=bot({n:'Roteirista (entregando)',c:0x4d7cff,p:[-6,0,-1],st:'walk'});walker.g.children.slice(0,8).forEach(m=>m.visible=false);walker.mon.visible=false;walker.lt.intensity=0;walker.body.children.slice(0,2).forEach(c=>c.visible=false);walker.body.children.slice(2,10).forEach(c=>c.visible=false);walker.body.position.y=.5;walker.legs=[];for(const sx of[-.14,.14]){const lg=new THREE.Group();lg.position.set(sx,.85,1.3);const m=new THREE.Mesh(new THREE.BoxGeometry(.18,.85,.18),M(0x2b3245));m.position.y=-.42;lg.add(m);walker.g.add(lg);walker.legs.push(lg)}
+const wdoc=new THREE.Mesh(new THREE.BoxGeometry(.4,.5,.05),M(0xffffff,0xffffff,.5));wdoc.position.set(0,1.4,-.5);walker.body.add(wdoc);
+// labels
+const labs=document.getElementById('labs');
+bots.forEach(b=>{if(b===walker)return;const d=document.createElement('div');d.className='lab';const a=b.a;
+ d.innerHTML=`<div class="b" style="${a.st=='err'?'border-color:#ff5b5b;background:#2a1214d9':a.st=='boss'?'border-color:#ffc857':''}">${a.t}<small>${a.s}</small>${a.pg?`<div class="pg"><u style="width:${a.pg}%"></u></div>`:''}</div><div class="n" style="color:${a.st=='err'?'#ff8b8b':'#fff'}">${a.n}${a.st=='idle'?' · zz':''}</div>`;labs.appendChild(d);b.lab=d});
+const feedTxt=[['agora','Roteirista entregou "Delivery e comissão" ao Revisor'],['1 min','Gerente passou "Aluno profissional" ao Designer'],['3 min','Agente de Notícias achou "Selic sobe 0,25" (nota 8)'],['6 min','Editor de vídeo parou: login da assinatura']];
+const feed=document.getElementById('feed');feedTxt.forEach(([t,x])=>{const d=document.createElement('div');d.innerHTML=`<i>${t}</i>${x}`;feed.appendChild(d)});
+const v=new THREE.Vector3();
+function frame(t){t/=1000;
+ const ang=.6+Math.sin(t*.12)*.35;cam.position.set(Math.sin(ang)*26,17,Math.cos(ang)*26);cam.lookAt(0,1,0);
+ bots.forEach((b,i)=>{const st=b.a.st;
+  if(st=='work'||st=='boss'){b.arms.forEach((a,k)=>a.rotation.x=Math.sin(t*14+k*1.6+i)*.12);b.head.rotation.y=Math.sin(t*1.3+i)*.25;b.body.position.y=Math.sin(t*3+i)*.02;b.mon.material.emissiveIntensity=1+Math.sin(t*9+i)*.25}
+  if(st=='boss'){b.body.rotation.y=Math.sin(t*.7)*.8}
+  if(st=='err'){b.arms.forEach((a,k)=>a.rotation.x=-1.2+Math.sin(t*3+k)*.2);const k=(Math.sin(t*6)+1)/2;b.mon.material.emissiveIntensity=.3+k*1.5;b.lt.intensity=k*2;b.head.rotation.z=Math.sin(t*2)*.15}
+  if(st=='idle'){b.head.rotation.x=.35+Math.sin(t*1.5)*.06;b.body.position.y=Math.sin(t*1.2)*.04}
+  b.ant.rotation.y=t*2;b.ant.position.y=2.55+Math.sin(t*2+i)*.06});
+ // walker path
+ const A=new THREE.Vector3(-6.5,0,-1),B=new THREE.Vector3(.5,0,2.4);const k=(Math.sin(t*.5)+1)/2;walker.g.position.lerpVectors(A,B,k);walker.g.rotation.y=Math.cos(t*.5)>0?-Math.atan2(B.x-A.x,B.z-A.z)+Math.PI:-Math.atan2(A.x-B.x,A.z-B.z)+Math.PI;walker.body.position.y=.4+Math.abs(Math.sin(t*8))*.06;walker.arms.forEach((a,j)=>a.rotation.x=Math.sin(t*8+j*Math.PI)*.5);walker.legs&&walker.legs.forEach((l,j)=>l.rotation.x=Math.sin(t*8+j*Math.PI)*.6);
+ packets.forEach(p=>{const u=((t*.18+p.o)%1);p.pk.position.copy(p.cur.getPoint(u));p.pk.rotation.y=t*3});
+ drawTV(t);tvl.intensity=1.4+Math.sin(t*3)*.2;
+ pts.rotation.y=t*.02;
+ R.render(S,cam);
+ bots.forEach(b=>{if(!b.lab)return;v.copy(b.g.position).add(new THREE.Vector3(0,3.3,1.3)).project(cam);b.lab.style.left=((v.x+1)/2*W)+'px';b.lab.style.top=((1-v.y)/2*H)+'px'});
+ requestAnimationFrame(frame)}
+requestAnimationFrame(frame);
+</script></body></html>

diff --git a/mockup/v3/cerebro-organico.html b/mockup/v3/cerebro-organico.html
@@ -45,7 +45,7 @@ const glowTex=(()=>{const c=document.createElement('canvas');c.width=c.height=64
 const core=new THREE.Sprite(new THREE.SpriteMaterial({map:glowTex,color:0xffc857,transparent:true,opacity:.55,blending:THREE.AdditiveBlending,depthWrite:false}));core.scale.setScalar(5);core.position.set(0,-1,0);root.add(core);
 const sparks=[];const hotIdx=hotR.map(n=>regions.findIndex(r=>r.n==n));
 for(let s=0;s<14;s++){const from=core.position,to=ctr[hotIdx[s%3]];const mid=from.clone().lerp(to,.5);mid.y+=3;const cur=new THREE.QuadraticBezierCurve3(from.clone(),mid,to);
- const sp=new THREE.Sprite(new THREE.SpriteMaterial({map:glowTex,color:0xffc857,transparent:true,blending:THREE.AdditiveBlending,depthWrite:false}));sp.scale.setScalar(1.3);root.add(sp);sparks.push({sp,cur,o:s/14})}
+ const sp=new THREE.Sprite(new THREE.SpriteMaterial({map:glowTex,color:0xffc857,transparent:true,blending:THREE.AdditiveBlending,depthWrite:false}));sp.scale.setScalar(.7);sp.material.color.set(0xd9b25a);root.add(sp);sparks.push({sp,cur,o:s/14})}
 hotIdx.forEach(i=>{const a=new THREE.Sprite(new THREE.SpriteMaterial({map:glowTex,color:0xffc857,transparent:true,opacity:.45,blending:THREE.AdditiveBlending,depthWrite:false}));a.scale.setScalar(4.5);a.position.copy(ctr[i]);root.add(a);sparks.push({halo:a})});
 // rule pulse (designer)
 const rule=new THREE.Sprite(new THREE.SpriteMaterial({map:glowTex,color:0xff5bd0,transparent:true,blending:THREE.AdditiveBlending,depthWrite:false}));rule.position.copy(ctr[2]).add(new THREE.Vector3(1.6,1.2,0));root.add(rule);
@@ -55,8 +55,8 @@ const rl=document.createElement('div');rl.className='lab';rl.innerHTML='<div cla
 document.getElementById('leg').innerHTML=regions.map(r=>`<span style="--c:rgb(${r.c.map(v=>v*255|0)})">${r.n}</span>`).join('')+'<span style="--c:#ffc857">Gerente / caminho aceso</span><span style="--c:#ff5bd0">regra nova</span>';
 const v=new THREE.Vector3();
 function frame(t){t/=1000;root.rotation.y=Math.PI/2-.35+Math.sin(t*.15)*.35;root.rotation.x=.12;cam.position.set(-3,3,34);cam.lookAt(-3,-.5,0);
- sparks.forEach(s=>{if(s.halo){s.halo.material.opacity=.3+Math.sin(t*3)*.15;return}const u=(t*.35+s.o)%1;s.sp.position.copy(s.cur.getPoint(u));s.sp.material.opacity=Math.sin(u*Math.PI)});
- rule.scale.setScalar(1.6+Math.sin(t*5)*.7);core.material.opacity=.45+Math.sin(t*2)*.12;pm.size=.11+Math.sin(t*1.5)*.01;
+ sparks.forEach(s=>{if(s.halo){s.halo.material.opacity=.14+Math.sin(t*3)*.05;return}const u=(t*.35+s.o)%1;s.sp.position.copy(s.cur.getPoint(u));s.sp.material.opacity=Math.sin(u*Math.PI)*.45});
+ rule.scale.setScalar(1.6+Math.sin(t*5)*.7);core.material.opacity=.28+Math.sin(t*2)*.06;pm.size=.11+Math.sin(t*1.5)*.01;
  R.render(S,cam);L.forEach(l=>{v.copy(l.p).applyMatrix4(root.matrixWorld).project(cam);l.d.style.left=((v.x+1)/2*W)+'px';l.d.style.top=((1-v.y)/2*H)+'px'});requestAnimationFrame(frame)}
 requestAnimationFrame(frame);
 </script></body></html>
